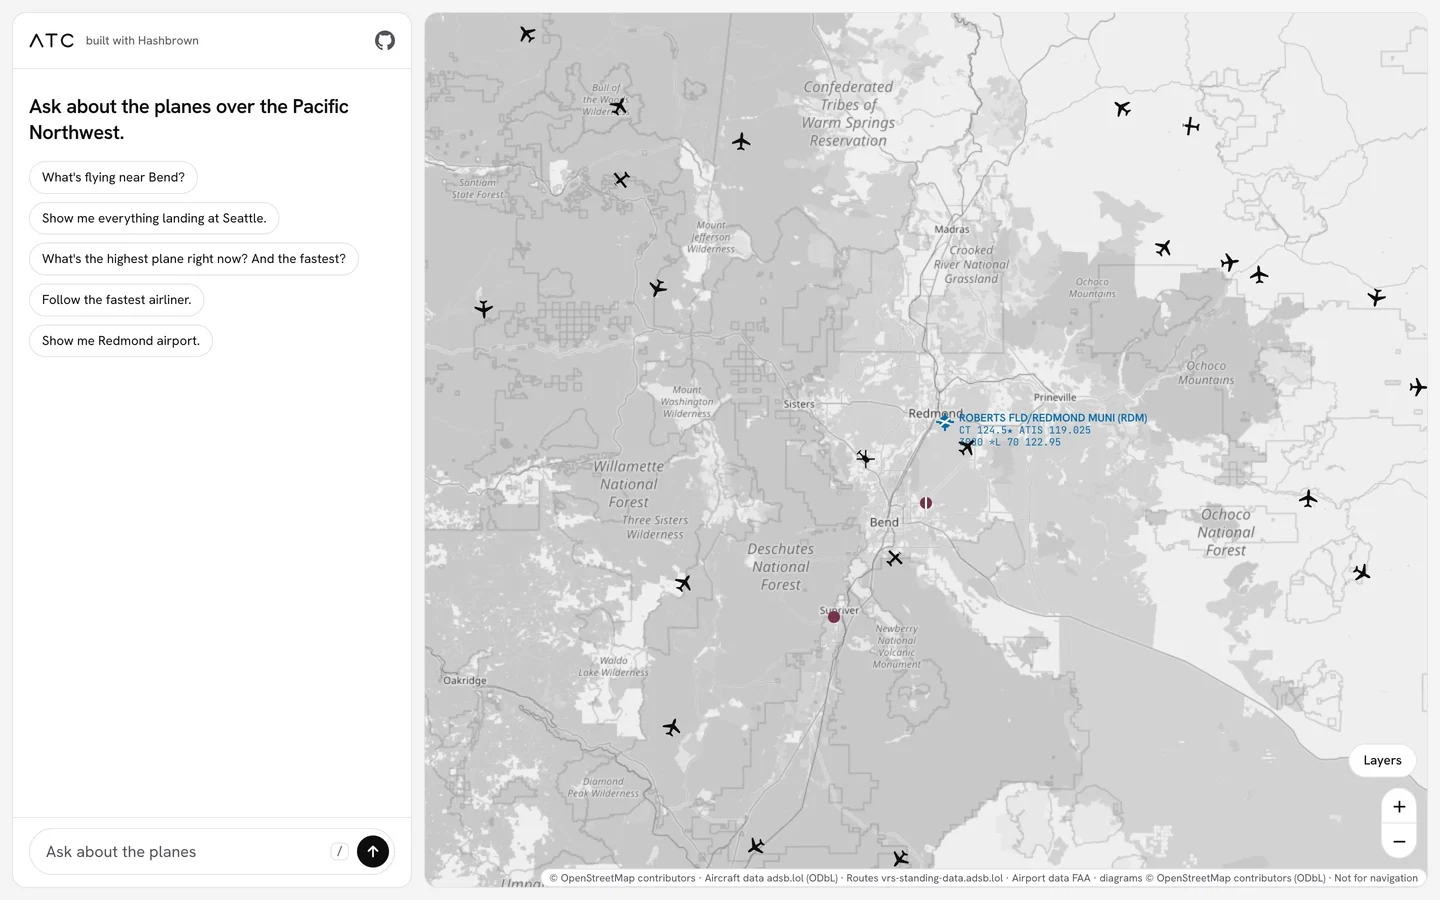
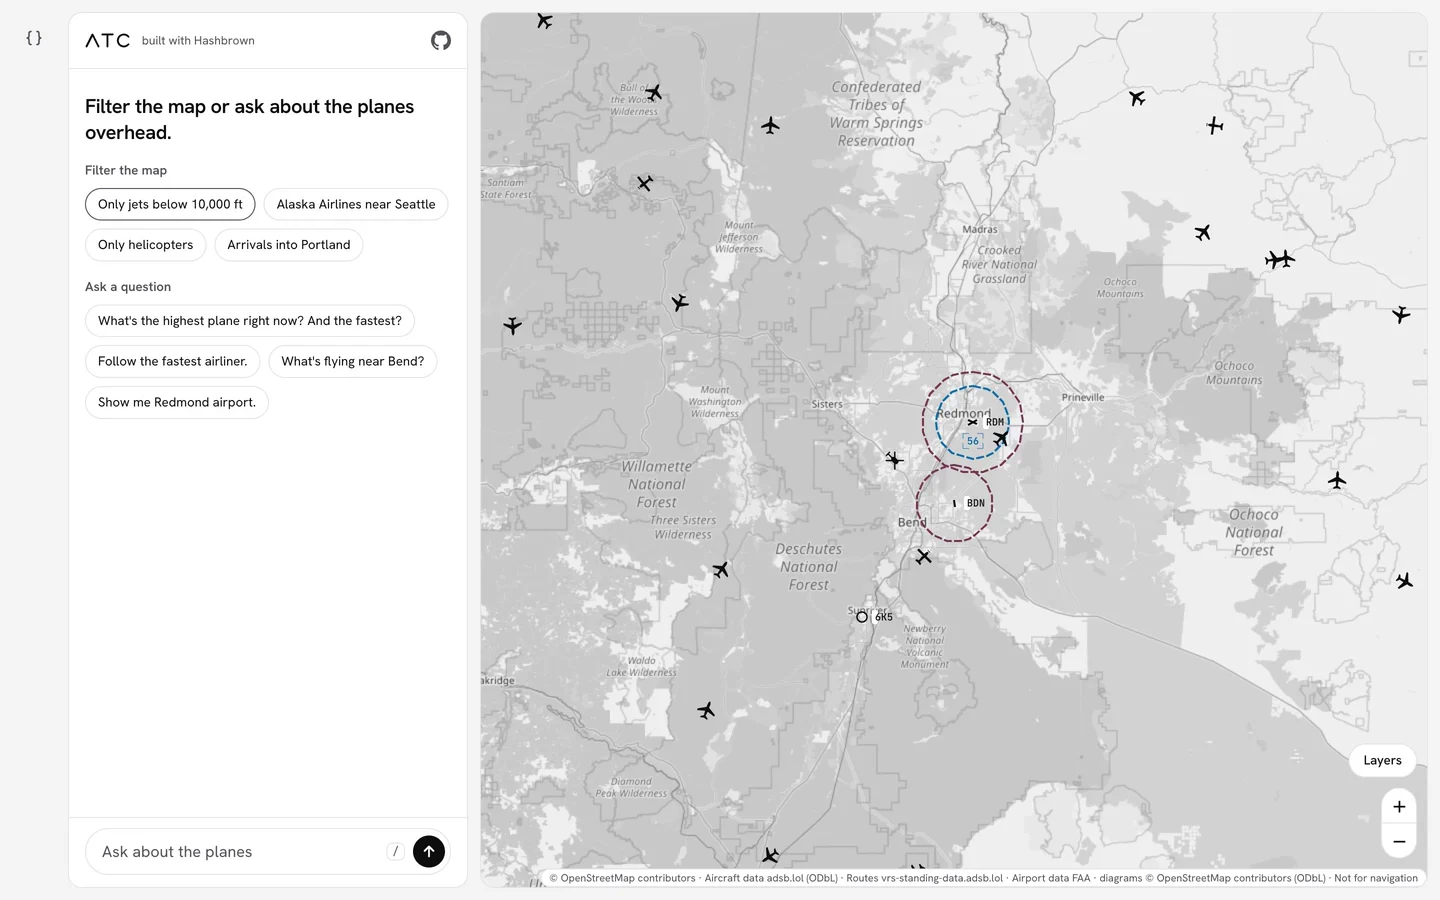
docs(www): refresh the atc demo video (#688)
## Summary
- Re-recorded the atc demo (63.7 s) and the home page loop (8.4 s) on
the current app: grouped filter and question starters, no "Show the
stream" switch. They are uploaded to the `hashbrown-www-media` Blob
store under new content-hashed URLs.
- `www/src/components/elements/atc-media.ts` is regenerated to point at
the new URLs, and the posters are refreshed.
- The duration wording is updated from 45 seconds to "about a minute" in
`publish.ts`, the blog post and the `AtcDemoVideo` caption. The caption
now describes the decide, filter and generate steps.
- The demo recorder now clears the filter it applies. Its click on the
pill's ✕ had been landing off-frame, which left the map filtered for the
second half of the video.

**Merge promptly:** the previous videos are already deleted from Blob,
so the live site shows no video until this deploys.

## Test plan
- [x] `npx nx run-many -t test,lint,build -p www` (319 tests)
- [x] `npx nx run-many -t test,lint,typecheck -p atc-e2e`
- [x] New Blob URLs return 200; checked the take frame by frame

🤖 Generated with [Claude Code](https://claude.com/claude-code)

---------

diff --git a/www/src/components/elements/atc-media.ts b/www/src/components/elements/atc-media.ts
@@ -9,10 +9,10 @@ export interface AtcVideo {
   readonly height: number;
 }
 
-/** The atc demo: about 45 s of code and app, for the blog and docs. */
+/** The atc demo: about a minute of code and app, for the blog and docs. */
 export const ATC_DEMO_VIDEO: AtcVideo = {
-  webm: 'https://ue1aiy83g4k7z6ts.public.blob.vercel-storage.com/video/atc-demo-002eab7a3eaa.webm',
-  mp4: 'https://ue1aiy83g4k7z6ts.public.blob.vercel-storage.com/video/atc-demo-38d65ccac9de.mp4',
+  webm: 'https://ue1aiy83g4k7z6ts.public.blob.vercel-storage.com/video/atc-demo-7e589dc82cf5.webm',
+  mp4: 'https://ue1aiy83g4k7z6ts.public.blob.vercel-storage.com/video/atc-demo-90ccc5aba992.mp4',
   poster: '/image/landing-page/atc-demo-poster.webp',
   width: 1440,
   height: 810,
@@ -20,8 +20,8 @@ export const ATC_DEMO_VIDEO: AtcVideo = {
 
 /** The home page loop: the app answering one question, seamless. */
 export const ATC_LOOP_VIDEO: AtcVideo = {
-  webm: 'https://ue1aiy83g4k7z6ts.public.blob.vercel-storage.com/video/atc-loop-e6402ec4c38c.webm',
-  mp4: 'https://ue1aiy83g4k7z6ts.public.blob.vercel-storage.com/video/atc-loop-2027bc6120e3.mp4',
+  webm: 'https://ue1aiy83g4k7z6ts.public.blob.vercel-storage.com/video/atc-loop-073fbb01ad4a.webm',
+  mp4: 'https://ue1aiy83g4k7z6ts.public.blob.vercel-storage.com/video/atc-loop-dc2b17c1541f.mp4',
   poster: '/image/landing-page/atc-loop-poster.webp',
   width: 1440,
   height: 900,

diff --git a/examples/atc/e2e/demo/record.ts b/examples/atc/e2e/demo/record.ts
@@ -249,7 +249,12 @@ async function recordDemo(context: BrowserContext, origin: string) {
       }
       await wait(beat.holdMs);
       if (beat.clearFilter) {
-        await app.getByRole('button', { name: 'Clear filter' }).click();
+        // The camera may have zoomed the pill out of the frame, where a real
+        // click lands outside the iframe and is lost, so dispatch it instead.
+        await app
+          .getByRole('button', { name: 'Clear filter' })
+          .dispatchEvent('click');
+        await app.getByTestId('filter-pill').waitFor({ state: 'hidden' });
       }
     });
   }

diff --git a/www/src/components/elements/AtcDemoVideo.tsx b/www/src/components/elements/AtcDemoVideo.tsx
@@ -24,8 +24,8 @@ export function AtcDemoVideo() {
         <source src={video.mp4} type="video/mp4" />
       </video>
       <figcaption>
-        atc in 45 seconds: expose your components, give the model tools, render
-        the stream.
+        atc in about a minute: decide where text goes, filter the map, and answer
+        with your own components.
       </figcaption>
     </figure>
   );

diff --git a/examples/atc/e2e/demo/publish.ts b/examples/atc/e2e/demo/publish.ts
@@ -48,7 +48,7 @@ export interface AtcVideo {
   readonly height: number;
 }
 
-/** The atc demo: about 45 s of code and app, for the blog and docs. */
+/** The atc demo: about a minute of code and app, for the blog and docs. */
 export const ATC_DEMO_VIDEO: AtcVideo = {
   webm: ${url(paths.demo.webm)},
   mp4: ${url(paths.demo.mp4)},

diff --git a/www/content/blog/2026-10-10-building-atc.md b/www/content/blog/2026-10-10-building-atc.md
@@ -25,7 +25,7 @@ The assistant answers with the same cards, boards and map that the app already h
 - [Fly it live at atc.hashbrown.dev](https://atc.hashbrown.dev)
 - [Read the source on GitHub](https://github.com/liveloveapp/hashbrown/tree/main/examples/atc)
 
-Here's the whole thing in 45 seconds:
+Here's the whole thing in about a minute:
 
 <www-atc-demo-video>
 </www-atc-demo-video>
